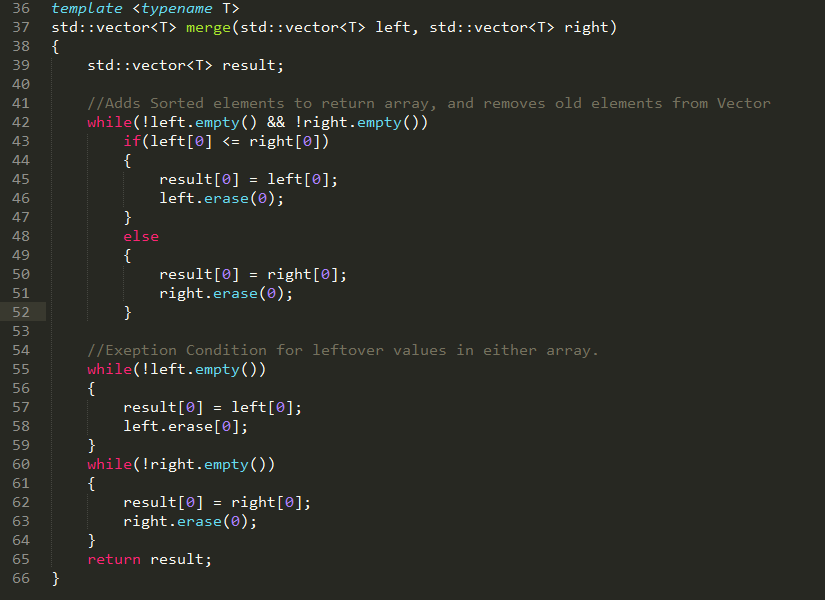
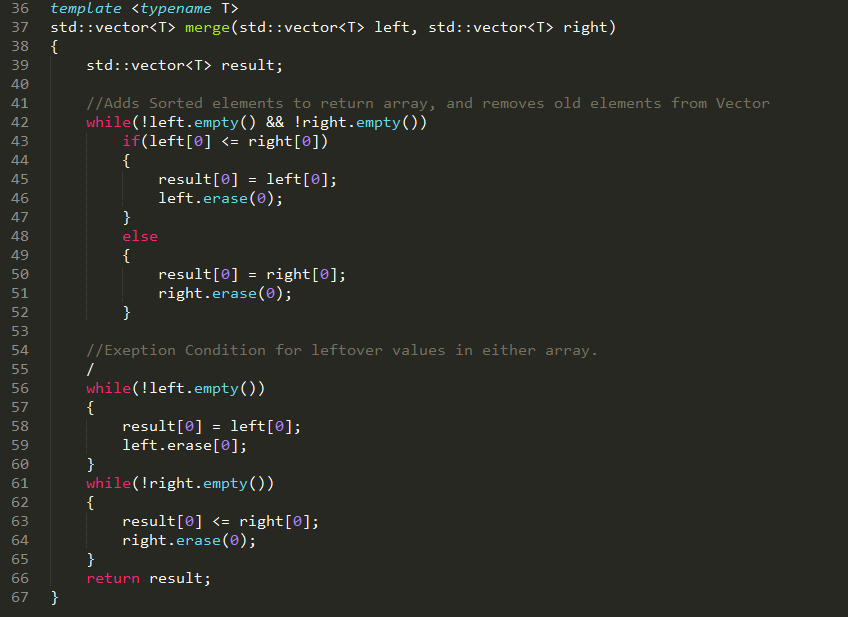
fgh

diff --git a/Divide and Conquer Lab/ExampleLab.cpp b/Divide and Conquer Lab/ExampleLab.cpp
@@ -1,7 +1,7 @@
 #include <vector>
 
 template <typename T>
-std::vector<T> MergeSort(const std::vector<T>& a)
+std::vector<T> mergeSort(const std::vector<T>& a)
 {
 	std::vector<T> r = a;	
 
@@ -60,7 +60,7 @@ std::vector<T> merge(std::vector<T> left, std::vector<T> right)
  	}
  	while(!right.empty())
  	{
- 		result[0] = right[0];
+ 		result[0] <= right[0];
  		right.erase(0);
  	}
  	return result;
